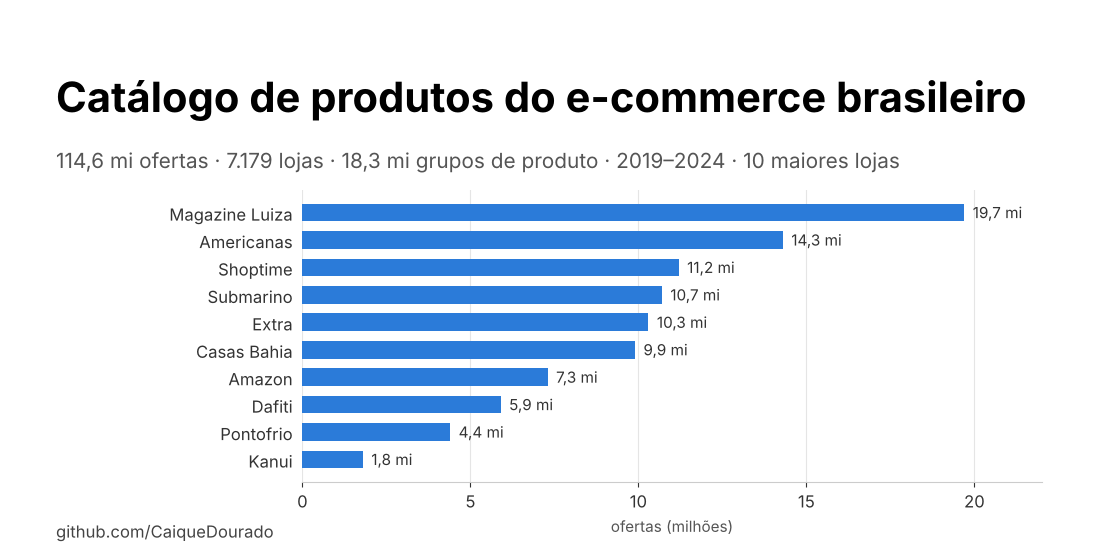
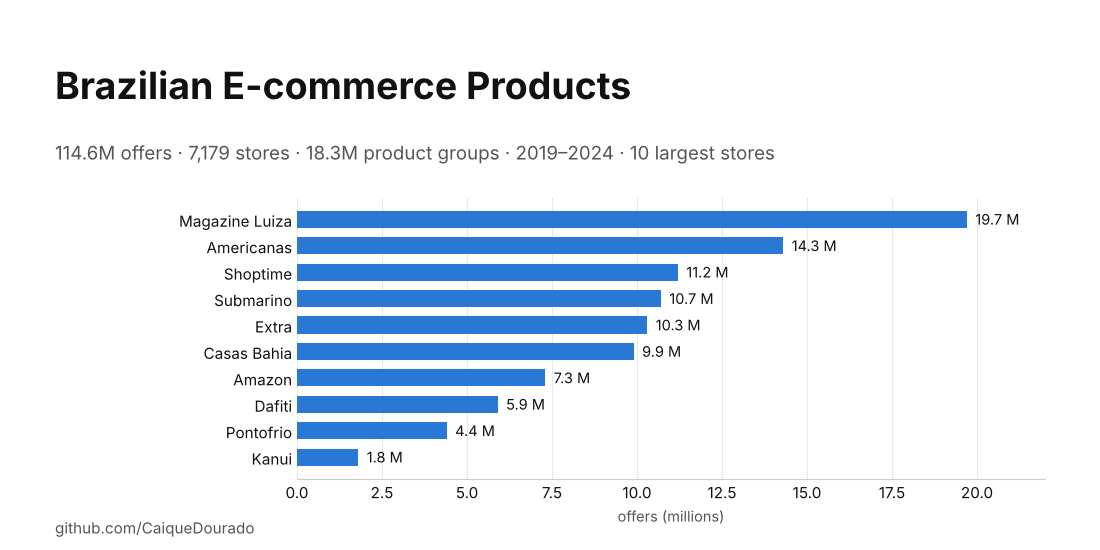
docs: English cover, Portuguese cover for README.pt-BR

diff --git a/scripts/make_cover.py b/scripts/make_cover.py
@@ -1,0 +1,68 @@
+"""Cover image in English and Portuguese: the 10 largest stores by number of offers.
+
+    python scripts/make_cover.py
+
+Writes docs/img/cover.png (EN, used by README.md) and docs/img/cover.pt-BR.png (PT, used by README.pt-BR.md).
+The numbers are the offer counts of the full data (README, "What's inside"), in millions. Needs matplotlib.
+"""
+
+from __future__ import annotations
+
+from pathlib import Path
+
+import matplotlib
+
+matplotlib.use("Agg")
+import matplotlib.pyplot as plt  # noqa: E402
+
+ROOT = Path(__file__).resolve().parents[1]
+INK, MUTED, GRID, BLUE = "#111111", "#555555", "#e6e8eb", "#2a78d6"
+for fam in ("Inter", "DejaVu Sans"):
+    try:
+        matplotlib.font_manager.findfont(fam, fallback_to_default=False)
+        plt.rcParams["font.family"] = fam
+        break
+    except ValueError:
+        pass
+
+STORES = [("Magazine Luiza", 19.7), ("Americanas", 14.3), ("Shoptime", 11.2), ("Submarino", 10.7), ("Extra", 10.3),
+          ("Casas Bahia", 9.9), ("Amazon", 7.3), ("Dafiti", 5.9), ("Pontofrio", 4.4), ("Kanui", 1.8)]
+T = {
+    "": dict(title="Brazilian E-commerce Products",
+             sub="114.6M offers · 7,179 stores · 18.3M product groups · 2019–2024 · 10 largest stores",
+             x="offers (millions)", unit="M", dec="."),
+    ".pt-BR": dict(title="Catálogo de produtos do e-commerce brasileiro",
+                   sub="114,6 mi ofertas · 7.179 lojas · 18,3 mi grupos de produto · 2019–2024 · 10 maiores lojas",
+                   x="ofertas (milhões)", unit="mi", dec=","),
+}
+
+
+def main() -> None:
+    out = ROOT / "docs" / "img"
+    names = [s for s, _ in STORES][::-1]
+    values = [v for _, v in STORES][::-1]
+    for suf, t in T.items():
+        fig = plt.figure(figsize=(11, 5.5), dpi=100)
+        fig.patch.set_facecolor("white")
+        fig.text(0.05, 0.82, t["title"], fontsize=27, weight="bold", color=INK)
+        fig.text(0.05, 0.71, t["sub"], fontsize=13.5, color=MUTED)
+        ax = fig.add_axes([0.27, 0.13, 0.68, 0.51])
+        ax.barh(names, values, color=BLUE, height=0.65)
+        for i, v in enumerate(values):
+            ax.text(v + 0.25, i, f"{v:.1f}".replace(".", t["dec"]) + f" {t['unit']}", va="center", fontsize=10.5, color=INK)
+        ax.set_xlim(0, 22)
+        ax.set_xlabel(t["x"], color=MUTED, fontsize=10.5)
+        ax.grid(axis="x", color=GRID, lw=0.8)
+        ax.set_axisbelow(True)
+        for s in ("top", "right", "left"):
+            ax.spines[s].set_visible(False)
+        ax.spines["bottom"].set_color("#cccccc")
+        ax.tick_params(length=0, labelsize=11, colors=INK)
+        fig.text(0.05, 0.03, "github.com/CaiqueDourado", fontsize=11, color=MUTED)
+        fig.savefig(out / f"cover{suf}.png", facecolor="white")
+        plt.close(fig)
+    print(f"-> {out}")
+
+
+if __name__ == "__main__":
+    main()

diff --git a/README.pt-BR.md b/README.pt-BR.md
@@ -1,5 +1,5 @@
 <p align="center">
-  <img src="docs/img/cover.png" alt="Catálogo de produtos do e-commerce brasileiro: as 10 maiores lojas em número de ofertas" width="900">
+  <img src="docs/img/cover.pt-BR.png" alt="Catálogo de produtos do e-commerce brasileiro: as 10 maiores lojas em número de ofertas" width="900">
 </p>
 
 # Catálogo de produtos do e-commerce brasileiro

diff --git a/README.md b/README.md
@@ -1,5 +1,5 @@
 <p align="center">
-  <img src="docs/img/cover.png" alt="Brazilian e-commerce product catalog: the 10 largest stores by number of offers" width="900">
+  <img src="docs/img/cover.png" alt="Brazilian e-commerce products: the 10 largest stores by number of offers" width="900">
 </p>
 
 # Brazilian e-commerce product catalog
